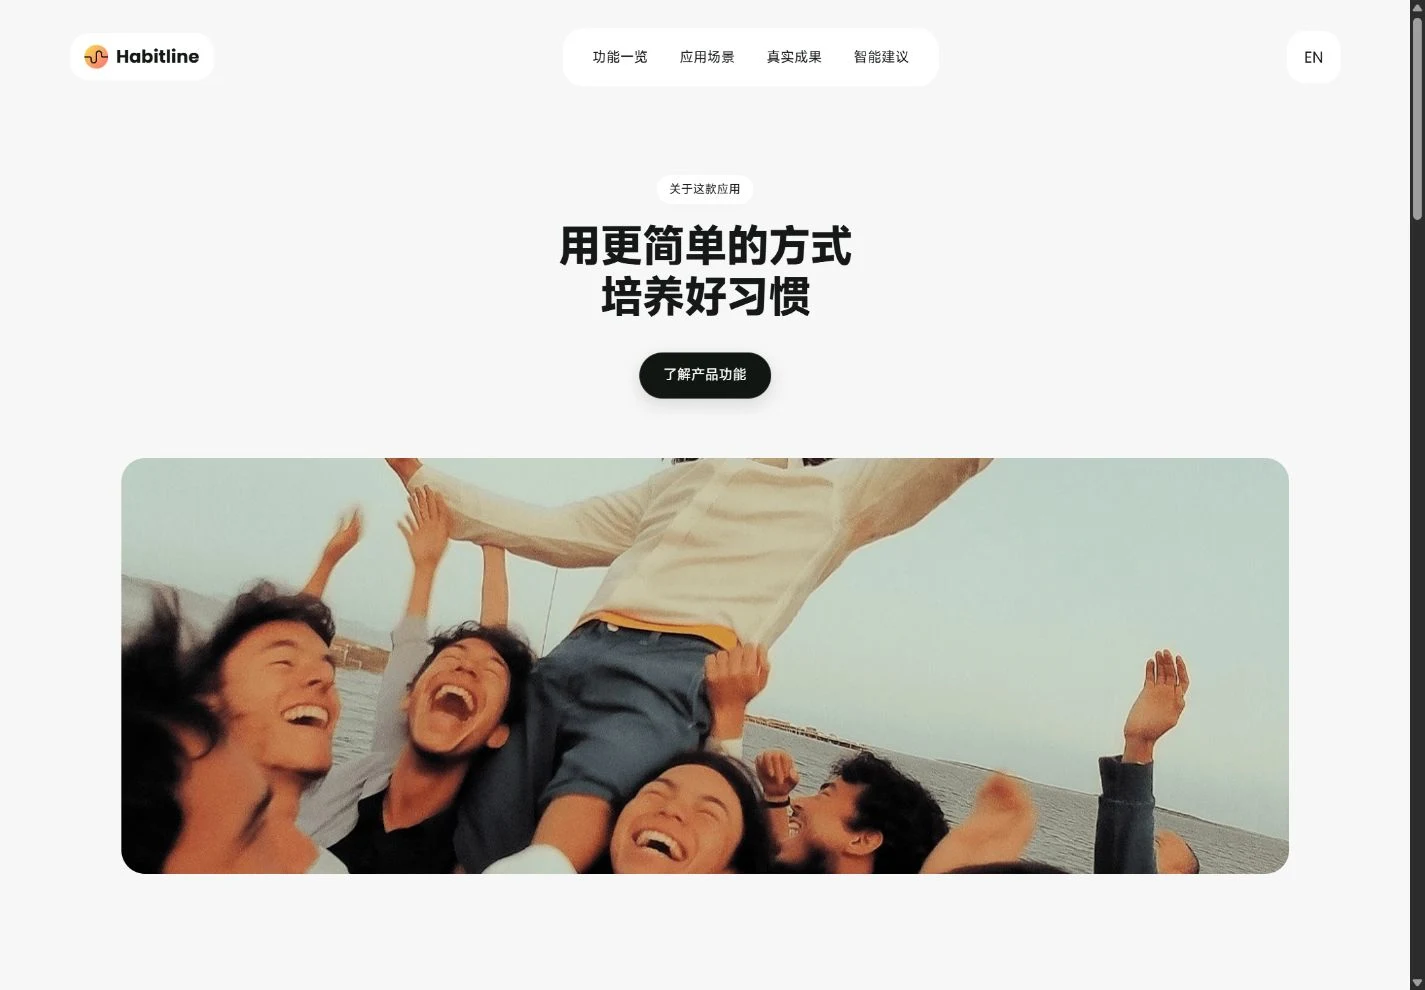
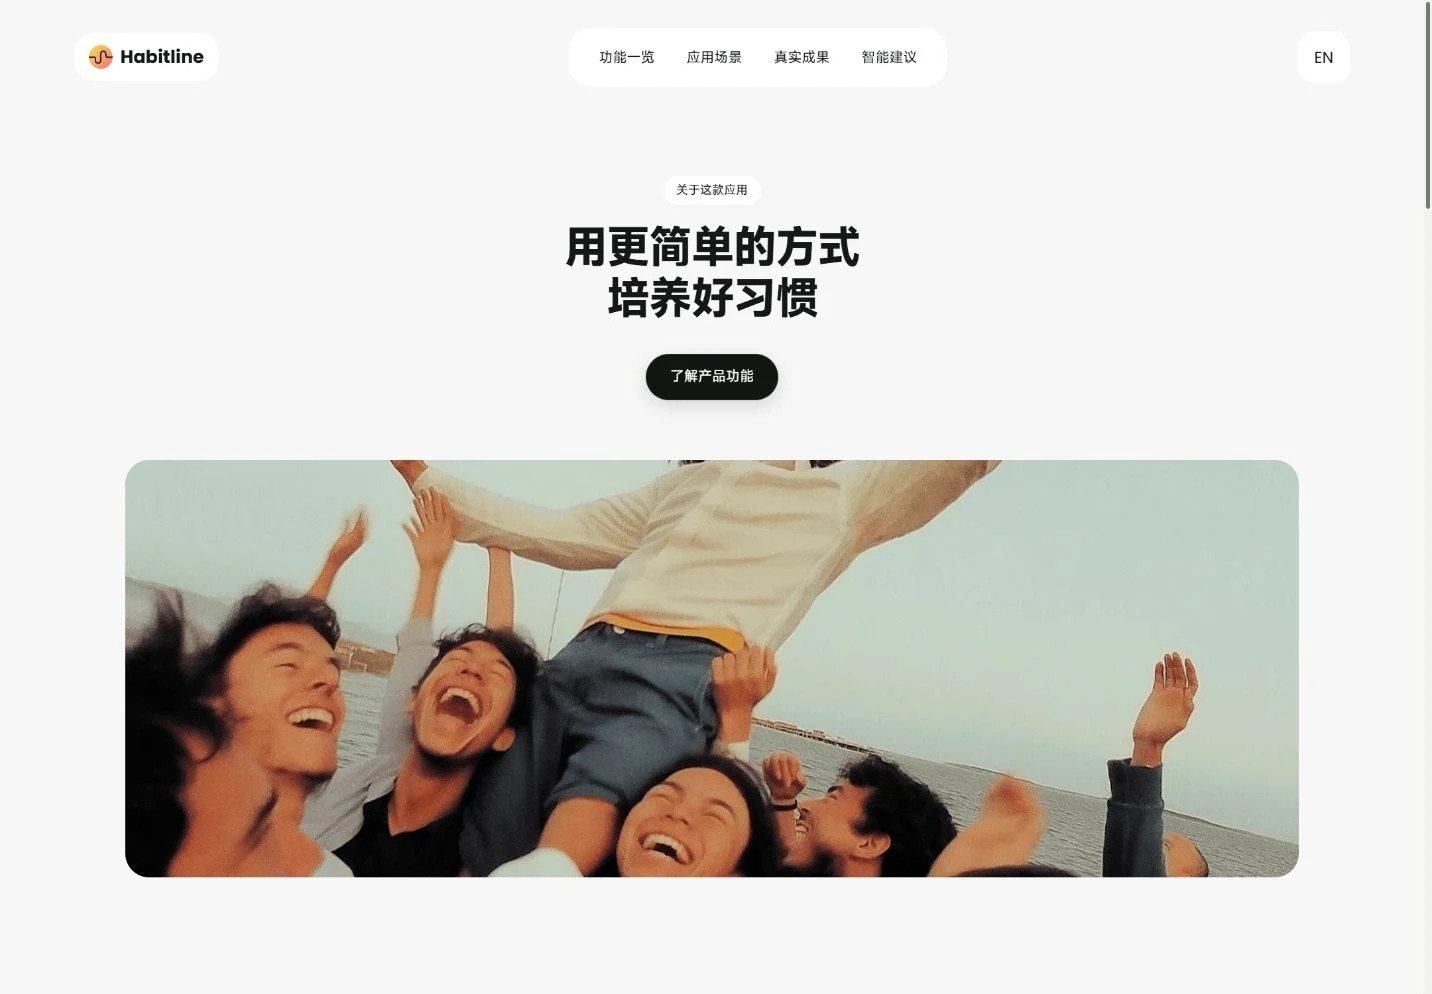
style: refine native scrollbars and refresh template previews

diff --git a/src/features/site-templates/catalog/habitline/meta.ts b/src/features/site-templates/catalog/habitline/meta.ts
@@ -1,2 +1,2 @@
 import type { SiteTemplate } from '../../types';
-export const habitlineTemplate: SiteTemplate = { ...{ "id": "habitline", "gitUrl": "https://github.com/weelume/habitline-template", "name": "Habitline · 从容习惯", "localizedNames": { "en": "Habitline · Calm daily habits" }, "sceneId": "landing-page", "listed": false, "tags": ["健康生活", "习惯管理", "玻璃质感", "双语", "PC / iPad / H5"], "summary": "暖橙色健康生活与习惯追踪模板，包含双首页、场景切换、动态数据、视频评价、定价、候补名单、更新日志、FAQ 和联系页。", "accentColor": "#ff5900", "cover": "/templates/habitline/screenshots/desktop-home.webp", "screenshots": [{ "src": "/templates/habitline/screenshots/desktop-home.webp", "alt": "Habitline desktop home", "device": "desktop", "width": 1425, "height": 990 }, { "src": "/templates/habitline/screenshots/desktop-features.webp", "alt": "Habitline desktop features", "device": "desktop", "width": 1440, "height": 1000 }, { "src": "/templates/habitline/screenshots/desktop-about.webp", "alt": "Habitline desktop about", "device": "desktop", "width": 1425, "height": 990 }, { "src": "/templates/habitline/screenshots/desktop-contact.webp", "alt": "Habitline desktop contact", "device": "desktop", "width": 1425, "height": 990 }, { "src": "/templates/habitline/screenshots/tablet-home.webp", "alt": "Habitline tablet home", "device": "tablet", "width": 819, "height": 1159 }, { "src": "/templates/habitline/screenshots/tablet-features.webp", "alt": "Habitline tablet features", "device": "tablet", "width": 834, "height": 1180 }, { "src": "/templates/habitline/screenshots/tablet-about.webp", "alt": "Habitline tablet about", "device": "tablet", "width": 819, "height": 1159 }, { "src": "/templates/habitline/screenshots/tablet-contact.webp", "alt": "Habitline tablet contact", "device": "tablet", "width": 819, "height": 1159 }, { "src": "/templates/habitline/screenshots/mobile-home.webp", "alt": "Habitline mobile home", "device": "mobile", "width": 375, "height": 812 }, { "src": "/templates/habitline/screenshots/mobile-features.webp", "alt": "Habitline mobile features", "device": "mobile", "width": 390, "height": 844 }, { "src": "/templates/habitline/screenshots/mobile-about.webp", "alt": "Habitline mobile about", "device": "mobile", "width": 375, "height": 812 }, { "src": "/templates/habitline/screenshots/mobile-contact.webp", "alt": "Habitline mobile contact", "device": "mobile", "width": 375, "height": 812 }] }, surfaces: [{ id: 'site', name: '官网', platform: 'pc', locales: ['zh', 'en'], pages: [{ slug: "", title: "首页", localizedTitles: { en: "Home" }, load: () => import('./pages/HomePage') }, { slug: "home-2", title: "首页二", localizedTitles: { en: "Home 2" }, load: () => import('./pages/HomeTwoPage') }, { slug: "about", title: "关于我们", localizedTitles: { en: "About" }, load: () => import('./pages/AboutPage') }, { slug: "waitlist", title: "候补名单", localizedTitles: { en: "Waitlist" }, load: () => import('./pages/WaitlistPage') }, { slug: "changelog", title: "更新日志", localizedTitles: { en: "Changelog" }, load: () => import('./pages/ChangelogPage') }, { slug: "faqs", title: "常见问题", localizedTitles: { en: "FAQs" }, load: () => import('./pages/FaqPage') }, { slug: "contact", title: "联系我们", localizedTitles: { en: "Contact" }, load: () => import('./pages/ContactPage') }, { slug: "legal-pages/privacy-policy", title: "隐私政策", localizedTitles: { en: "Privacy Policy" }, load: () => import('./pages/PrivacyPage') }, { slug: "legal-pages/terms-conditions", title: "服务条款", localizedTitles: { en: "Terms & Conditions" }, load: () => import('./pages/TermsPage') }] }] };
+export const habitlineTemplate: SiteTemplate = { ...{ "id": "habitline", "gitUrl": "https://github.com/weelume/habitline-template", "name": "Habitline · 从容习惯", "localizedNames": { "en": "Habitline · Calm daily habits" }, "sceneId": "landing-page", "listed": false, "tags": ["健康生活", "习惯管理", "玻璃质感", "双语", "PC / iPad / H5"], "summary": "暖橙色健康生活与习惯追踪模板，包含双首页、场景切换、动态数据、视频评价、定价、候补名单、更新日志、FAQ 和联系页。", "accentColor": "#ff5900", "cover": "/templates/habitline/screenshots/desktop-home.webp", "screenshots": [{ "src": "/templates/habitline/screenshots/desktop-home.webp", "alt": "Habitline desktop home", "device": "desktop", "width": 1432, "height": 994 }, { "src": "/templates/habitline/screenshots/desktop-features.webp", "alt": "Habitline desktop features", "device": "desktop", "width": 1432, "height": 994 }, { "src": "/templates/habitline/screenshots/desktop-about.webp", "alt": "Habitline desktop about", "device": "desktop", "width": 1432, "height": 994 }, { "src": "/templates/habitline/screenshots/desktop-contact.webp", "alt": "Habitline desktop contact", "device": "desktop", "width": 1432, "height": 994 }, { "src": "/templates/habitline/screenshots/tablet-home.webp", "alt": "Habitline tablet home", "device": "tablet", "width": 826, "height": 1169 }, { "src": "/templates/habitline/screenshots/tablet-features.webp", "alt": "Habitline tablet features", "device": "tablet", "width": 826, "height": 1169 }, { "src": "/templates/habitline/screenshots/tablet-about.webp", "alt": "Habitline tablet about", "device": "tablet", "width": 826, "height": 1169 }, { "src": "/templates/habitline/screenshots/tablet-contact.webp", "alt": "Habitline tablet contact", "device": "tablet", "width": 826, "height": 1169 }, { "src": "/templates/habitline/screenshots/mobile-home.webp", "alt": "Habitline mobile home", "device": "mobile", "width": 382, "height": 827 }, { "src": "/templates/habitline/screenshots/mobile-features.webp", "alt": "Habitline mobile features", "device": "mobile", "width": 382, "height": 827 }, { "src": "/templates/habitline/screenshots/mobile-about.webp", "alt": "Habitline mobile about", "device": "mobile", "width": 382, "height": 827 }, { "src": "/templates/habitline/screenshots/mobile-contact.webp", "alt": "Habitline mobile contact", "device": "mobile", "width": 382, "height": 827 }] }, surfaces: [{ id: 'site', name: '官网', platform: 'pc', locales: ['zh', 'en'], pages: [{ slug: "", title: "首页", localizedTitles: { en: "Home" }, load: () => import('./pages/HomePage') }, { slug: "home-2", title: "首页二", localizedTitles: { en: "Home 2" }, load: () => import('./pages/HomeTwoPage') }, { slug: "about", title: "关于我们", localizedTitles: { en: "About" }, load: () => import('./pages/AboutPage') }, { slug: "waitlist", title: "候补名单", localizedTitles: { en: "Waitlist" }, load: () => import('./pages/WaitlistPage') }, { slug: "changelog", title: "更新日志", localizedTitles: { en: "Changelog" }, load: () => import('./pages/ChangelogPage') }, { slug: "faqs", title: "常见问题", localizedTitles: { en: "FAQs" }, load: () => import('./pages/FaqPage') }, { slug: "contact", title: "联系我们", localizedTitles: { en: "Contact" }, load: () => import('./pages/ContactPage') }, { slug: "legal-pages/privacy-policy", title: "隐私政策", localizedTitles: { en: "Privacy Policy" }, load: () => import('./pages/PrivacyPage') }, { slug: "legal-pages/terms-conditions", title: "服务条款", localizedTitles: { en: "Terms & Conditions" }, load: () => import('./pages/TermsPage') }] }] };

diff --git a/src/features/site-templates/catalog/habitline/components/Shell.tsx b/src/features/site-templates/catalog/habitline/components/Shell.tsx
@@ -25,6 +25,18 @@ export function Shell({ children, locale, basePath, hero = false }: {
     const home = (basePath || '') + '/';
     const nav = [['features', '功能一览', 'What’s inside'], ['use-case', '应用场景', 'Use case'], ['metrics', '真实成果', 'Metrics'], ['smart-assist', '智能建议', 'Smart Assist']];
     useEffect(() => { document.documentElement.lang = locale === 'en' ? 'en' : 'zh-CN'; }, [locale]);
+    // 页面滚动条属于文档根节点；离开模板后恢复原状态，避免影响消费方其他页面。
+    useEffect(() => {
+        const element = document.documentElement;
+        const previous = element.getAttribute('data-habitline-scrollbar');
+        element.setAttribute('data-habitline-scrollbar', '');
+        return () => {
+            if (previous === null)
+                element.removeAttribute('data-habitline-scrollbar');
+            else
+                element.setAttribute('data-habitline-scrollbar', previous);
+        };
+    }, []);
     function closeMenu() { setMenu(false); menuButton.current?.focus(); }
     function languageHref() { const suffix = pathname.startsWith(basePath) ? pathname.slice(basePath.length) : pathname; return (locale === 'en' ? root : root + '/en') + (suffix || '/'); }
     return <MotionConfig reducedMotion="user"><div className="hl" lang={locale === 'en' ? 'en' : 'zh-CN'}><a className="hl-skip" href="#hl-main">{t(copy('跳转正文', 'Skip to content'), locale)}</a><header className={'hl-header ' + (hero ? 'hl-header-hero' : '')}><Link className="hl-brand" href={home}>{host.logo && <img src={host.logo} alt=""/>}<span>{t(host.brandName, locale)}</span></Link><nav aria-label={t(copy('主导航', 'Main navigation'), locale)}>{nav.map(([id, zh, en]) => <Link key={id} href={home + '#' + id}>{locale === 'zh' ? zh : en}</Link>)}</nav><div className="hl-nav-right"><Link href={languageHref()} onClick={event => { event.preventDefault(); router.push(languageHref() + window.location.search + window.location.hash); }} aria-label={locale === 'zh' ? 'Switch to English' : '切换为中文'}>{locale === 'zh' ? 'EN' : '中文'}</Link><button ref={menuButton} onClick={() => setMenu(!menu)} aria-expanded={menu} aria-controls="hl-mobile-menu" className="hl-menu-button">{t(copy(menu ? '关闭' : '菜单', menu ? 'Close' : 'Menu'), locale)}</button></div><AnimatePresence>{menu && <motion.nav id="hl-mobile-menu" className="hl-mobile-menu" aria-label={t(copy('全部页面', 'All pages'), locale)} initial={{ opacity: 0, y: -12 }} animate={{ opacity: 1, y: 0 }} exit={{ opacity: 0, y: -12 }} onKeyDown={e => {

diff --git a/src/features/site-templates/catalog/habitline/scrollbars.css b/src/features/site-templates/catalog/habitline/scrollbars.css
@@ -1,0 +1,29 @@
+/* 根节点标记由 Shell 管理，模板卸载即恢复；保留原生滚动和键盘行为。 */
+html[data-habitline-scrollbar], .hl {
+  --hl-scroll-track: #f2f2ee;
+  --hl-scroll-thumb: #747b73;
+  --hl-scroll-thumb-hover: #ed682f;
+  --hl-scroll-thumb-active: #bd461a;
+  scrollbar-width: thin;
+  scrollbar-color: var(--hl-scroll-thumb) var(--hl-scroll-track);
+}
+html[data-habitline-scrollbar] { scrollbar-gutter: stable; }
+.hl * { scrollbar-width: thin; scrollbar-color: var(--hl-scroll-thumb) transparent; }
+/* Chromium 同时支持两套 API；将标准属性恢复为 auto，确保 8px/6px 细节生效。 */
+@supports selector(::-webkit-scrollbar) {
+  html[data-habitline-scrollbar], .hl, .hl * { scrollbar-width: auto; scrollbar-color: auto; }
+  html[data-habitline-scrollbar]::-webkit-scrollbar { width: 8px; height: 8px; }
+  .hl::-webkit-scrollbar, .hl *::-webkit-scrollbar { width: 6px; height: 6px; }
+  html[data-habitline-scrollbar]::-webkit-scrollbar-track { background: var(--hl-scroll-track); }
+  .hl::-webkit-scrollbar-track, .hl *::-webkit-scrollbar-track { background: transparent; }
+  html[data-habitline-scrollbar]::-webkit-scrollbar-thumb, .hl::-webkit-scrollbar-thumb, .hl *::-webkit-scrollbar-thumb {
+    min-height: 36px; min-width: 36px; border-radius: 999px;
+    border: 2px solid transparent; background: var(--hl-scroll-thumb); background-clip: padding-box;
+  }
+  html[data-habitline-scrollbar]::-webkit-scrollbar-thumb:hover, .hl::-webkit-scrollbar-thumb:hover, .hl *::-webkit-scrollbar-thumb:hover { background-color: var(--hl-scroll-thumb-hover); }
+  html[data-habitline-scrollbar]::-webkit-scrollbar-thumb:active, .hl::-webkit-scrollbar-thumb:active, .hl *::-webkit-scrollbar-thumb:active { background-color: var(--hl-scroll-thumb-active); }
+  html[data-habitline-scrollbar]::-webkit-scrollbar-corner, .hl *::-webkit-scrollbar-corner { background: transparent; }
+}
+@media (forced-colors: active) {
+  html[data-habitline-scrollbar], .hl, .hl * { scrollbar-color: auto; }
+}

diff --git a/src/features/site-templates/catalog/habitline/theme.css b/src/features/site-templates/catalog/habitline/theme.css
@@ -1,3 +1,4 @@
+@import './scrollbars.css';
 @import url('/templates/habitline/fonts/misans/MiSans-Regular.css');
 @import url('/templates/habitline/fonts/misans/MiSans-Bold.css');
 @font-face{font-family:HabitlinePoppins;src:url('/templates/habitline/fonts/poppins-latin-400.woff2')}@font-face{font-family:HabitlinePoppins;src:url('/templates/habitline/fonts/poppins-latin-600.woff2');font-weight:600}@font-face{font-family:HabitlinePoppins;src:url('/templates/habitline/fonts/poppins-latin-700.woff2');font-weight:700}

diff --git a/.tpl/docs/MOTION.md b/.tpl/docs/MOTION.md
@@ -20,3 +20,7 @@
 | 减少动态 | 系统设置 | 禁用 CSS 循环与 MotionConfig user | 待系统实测 |
 
 当前实现存在明确差异，尤其未验证全站三端的触发阈值、轨迹、缓动、持续速度与原站视频轮播。不得以本表代表完整动效复刻完成。
+
+## 1.0.1 滚动条
+
+页面 8px、内部区域 6px 原生圆角滚动条，低对比轨道、灰绿滑块、橙色悬停与按压色。文档标记仅在模板挂载时启用，离开后恢复。保留原生滚轮、键盘与拖拽；高对比模式保留系统颜色。
